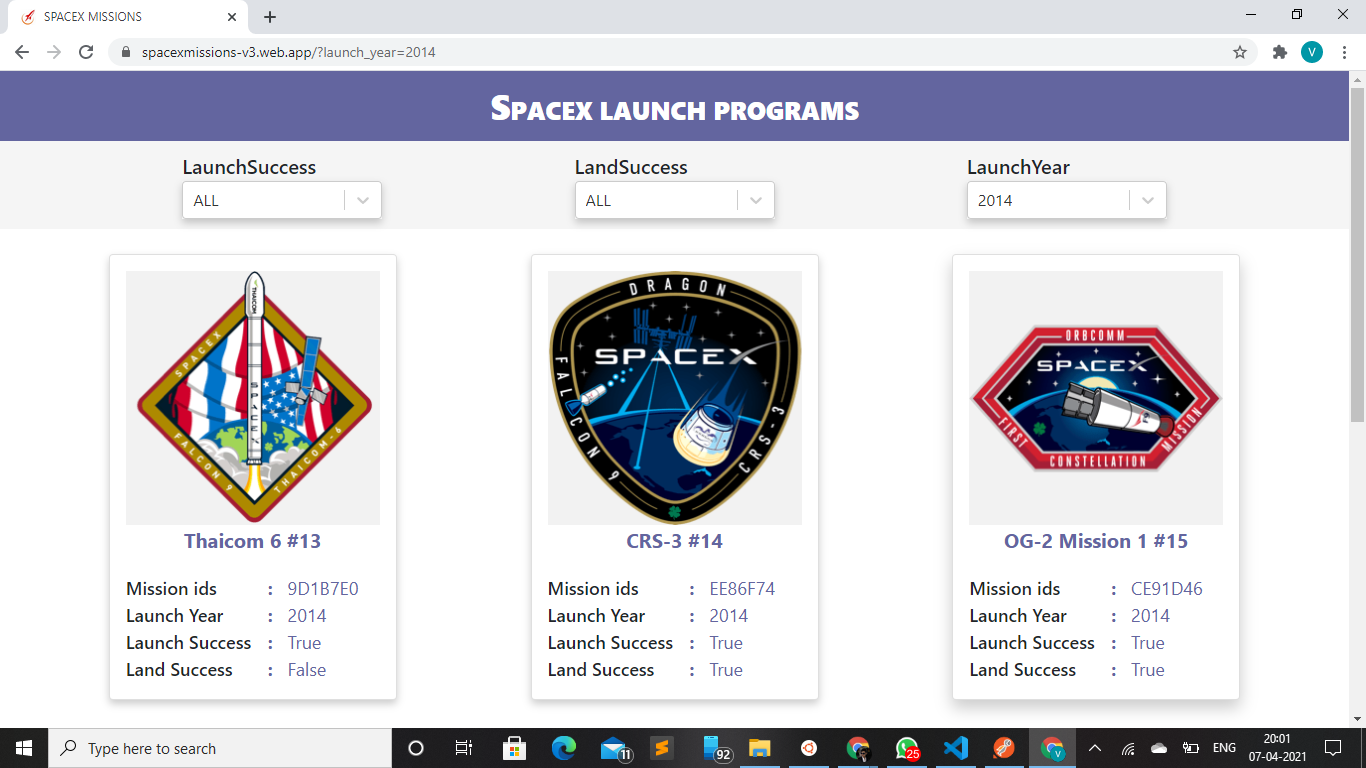
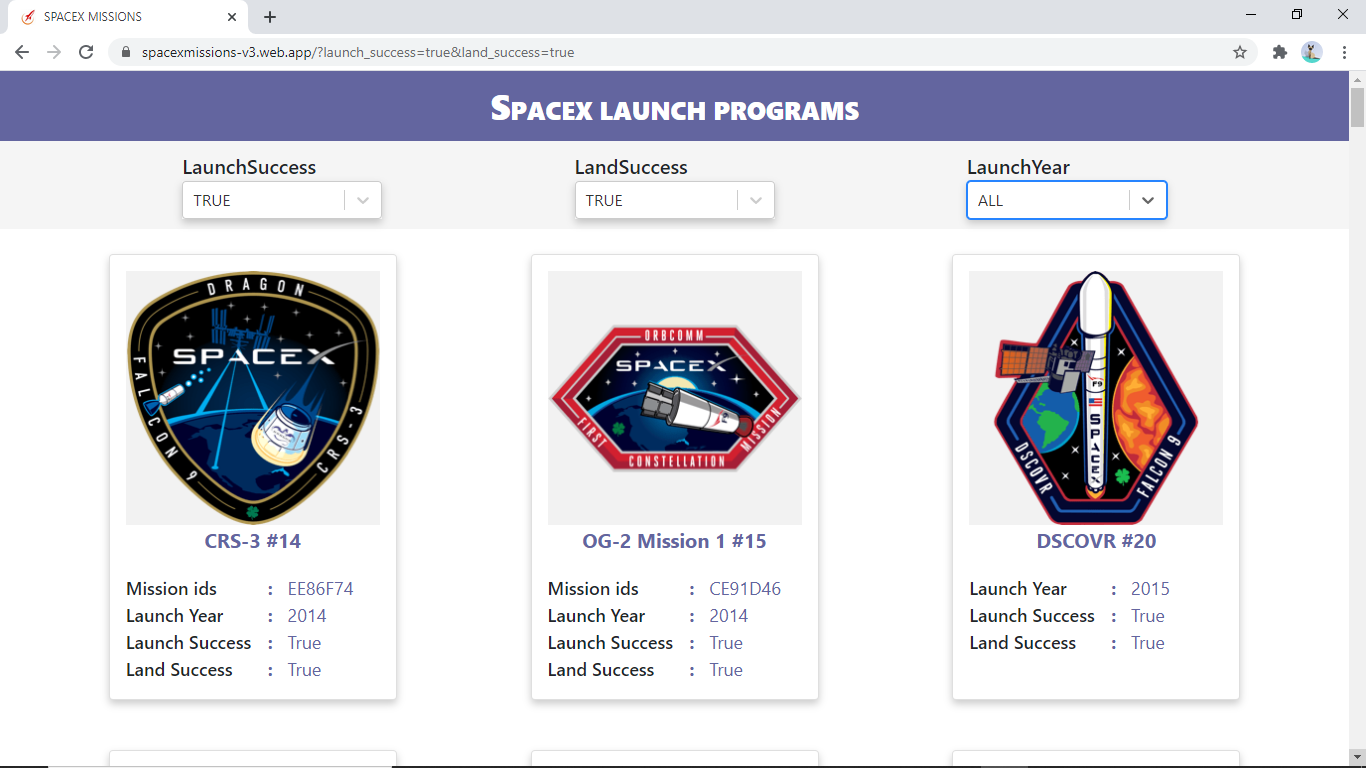
updated readme file

diff --git a/README.md b/README.md
@@ -1,4 +1,4 @@
-## spacex
+# spacex
 An application which would help users list and browse all launches by SpaceX program 
 ## Installation
 To install, simply clone this repository & run the following command ```yarn install``` or ```npm install```, this will install all the dependencies for you.
@@ -13,11 +13,11 @@ SpaceX app is deployed on **Firebase** [SpacexLaunchPrograms](https://spacexmiss
 
 >After Apply LaunchYear filter
 
-![Alt text](/images/spacex3.png)
+![Alt text](/images/spacex2.png)
 
 >After Applying LaunchSuccess and LandSuccess filters
 
-![Alt text](/images/spacex2.png)
+![Alt text](/images/spacex3.png)
 
 >After Applying LaunchSucces,LandSuccess and LaunchYear filters
 
